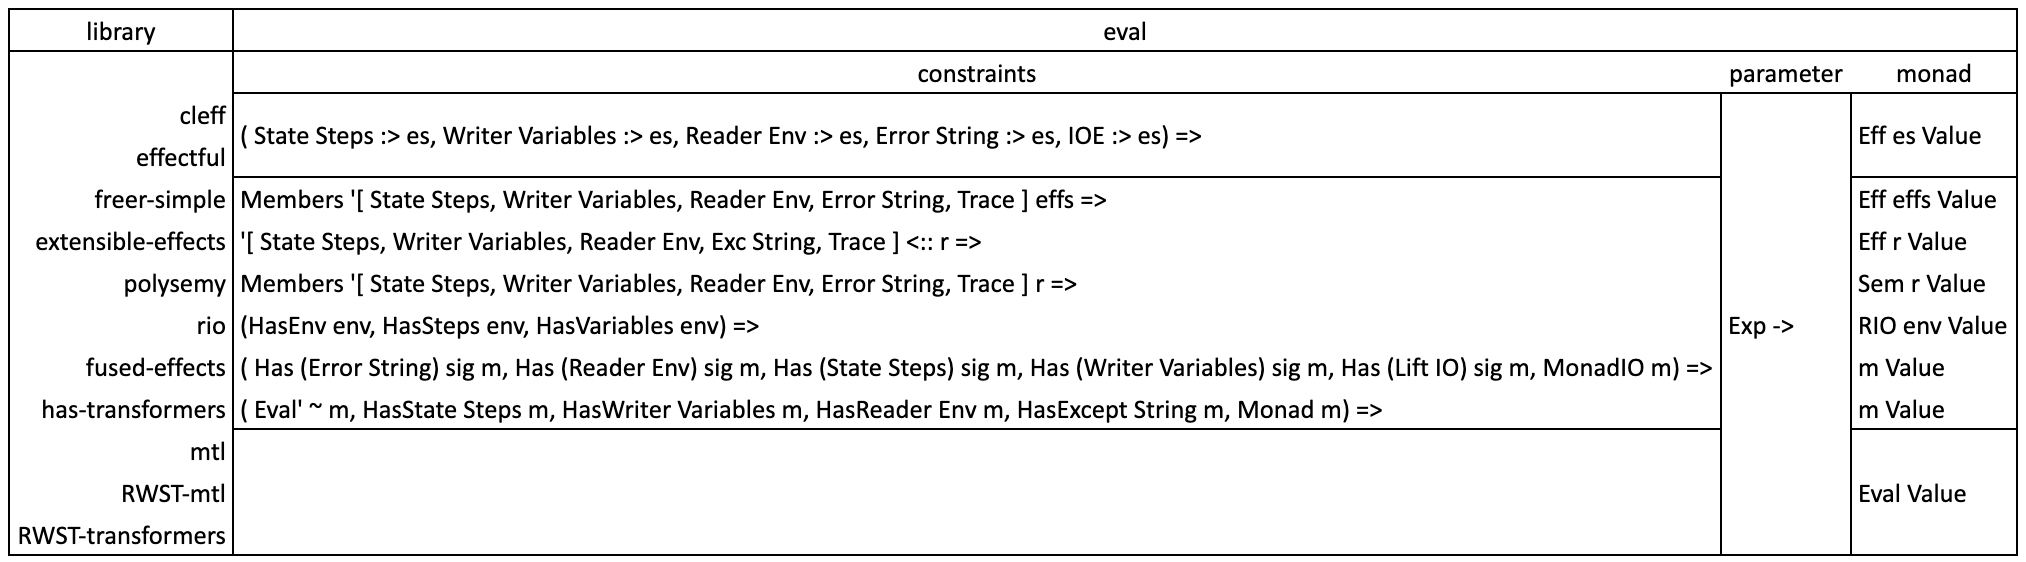
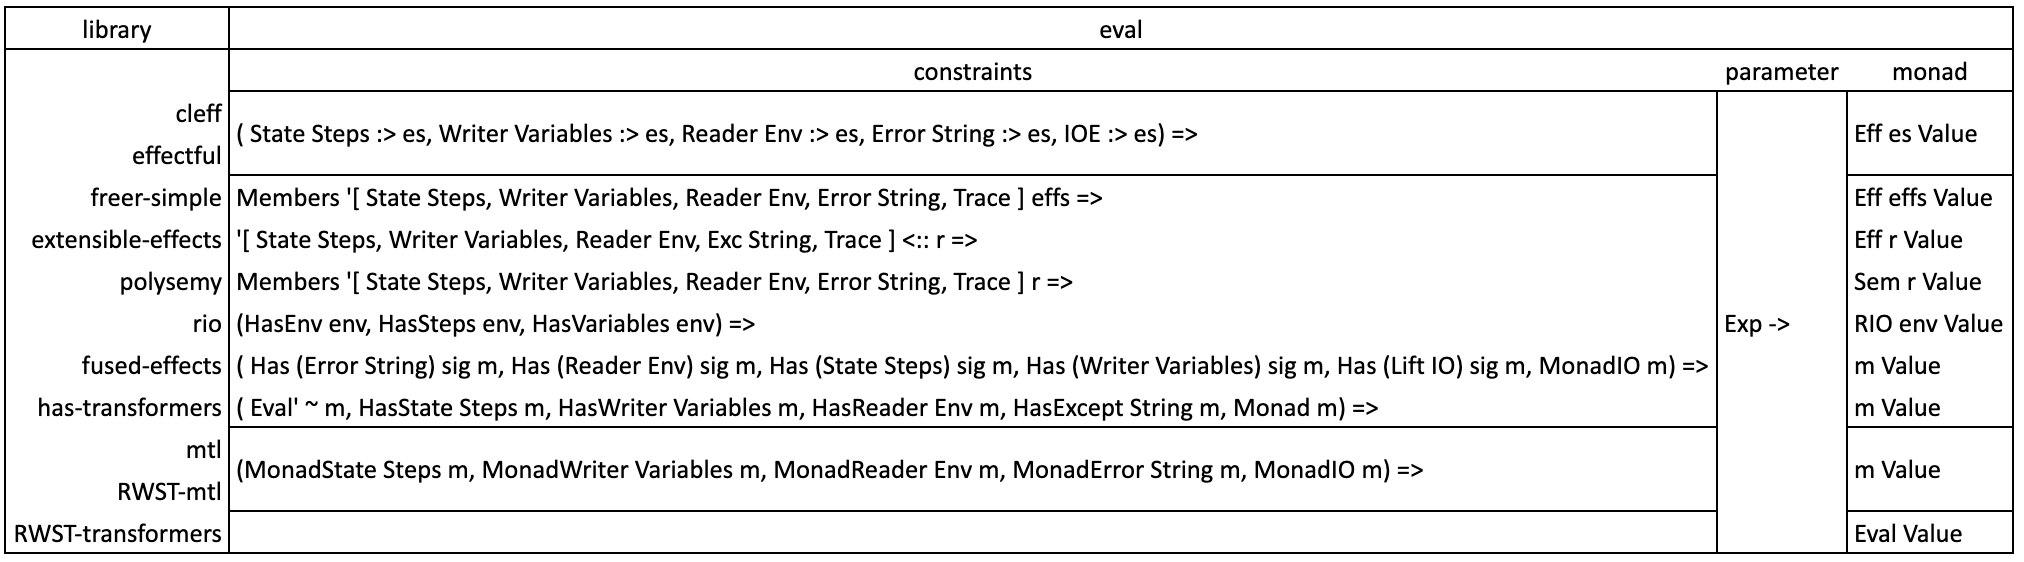
mtl signatures improved, doc updated

diff --git a/README.md b/README.md
@@ -239,7 +239,7 @@ runEval env steps ev = do
 
 ![tick](images/tick.png)
 
-Having a description of involved effects in a signature is common today. But it came after `mtl` and `transformers` releases, so they display a flat `Eval ()`.
+Besides `transformers`, it is easy to describe involved effects in a signature.
 
 As often, `cleff` and `effectful` are identical. We could say that `extensible-effects`, `freer-simple` and `polysemy` are very similar too. It becomes clear if we replace `Member` by the type operator `:>` and do some renaming.
 
